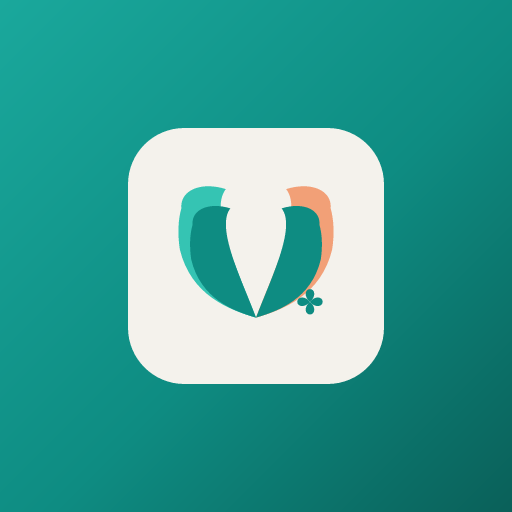
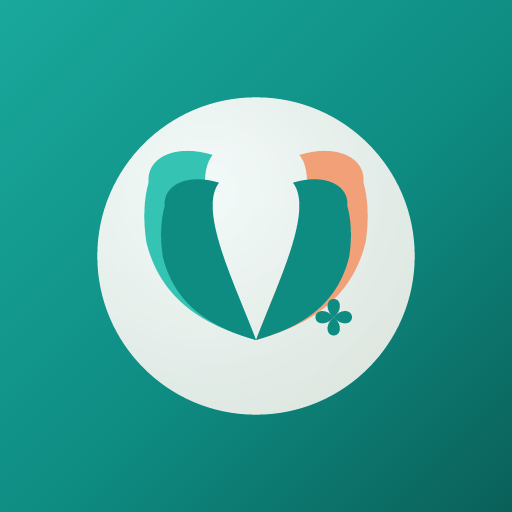
v3.1.1: ปรับดีไซน์ไอคอนแอพให้สวย/ทันสมัยขึ้น
ผู้ใช้ feedback ว่าไอคอนแอพชุด v3.1.0 "ไม่สวย" — ดีไซน์เดิมซ้อน 3 ชั้น
(พื้นหลัง gradient → การ์ดเหลี่ยมมุมโค้งสีครีม → ตรารพ.ตัวเล็กในการ์ด)
ทำให้ดูรกและรายละเอียดตรารพ. (แถบ coral, ดอกไม้สี่กลีบ) เละที่ขนาดเล็ก

- ตัดชั้นการ์ดเหลี่ยมออก เหลือ 2 ชั้น: พื้นหลัง gradient เทอร์ควอยซ์เต็มพื้นที่
  + แผ่นวงกลมสีครีมตรงกลาง แล้ววางตรารพ.ให้ใหญ่ขึ้นและอยู่กึ่งกลาง
- อัปเดตไฟล์ icon-192/512, apple-touch-icon, icon-maskable-192/512 (ชื่อไฟล์เดิม)
- ปรับ badge ตรารพ.หน้า login เป็นวงกลมให้เข้าชุดกับไอคอนแอพใหม่

ตรวจสอบแล้ว: tsc -b ผ่าน, npm test 68/68 ผ่าน, npm run build สำเร็จ

Claude-Session: https://claude.ai/code/session_017ScEEJXyYsYTMjkuNbqpj1

Changed region(s): [[0.1875, 0.1875, 0.8125, 0.7188], [0.2812, 0.7188, 0.7188, 0.8125]]

diff --git a/src/screens/LoginScreen.tsx b/src/screens/LoginScreen.tsx
@@ -65,7 +65,7 @@ export default function LoginScreen() {
           column, since a split layout only makes sense wider than this app is ever opened). */}
       <div style={{ position: 'relative', padding: 'calc(env(safe-area-inset-top, 0px) + 22px) 26px 4px', maxWidth: 440, margin: '0 auto', width: '100%' }}>
         <div style={{ display: 'flex', alignItems: 'center', gap: 12, marginBottom: 22, animation: 'fade .4s var(--ease-out) both' }}>
-          <div style={{ width: 46, height: 46, borderRadius: 14, background: 'linear-gradient(140deg, rgba(255,255,255,.85), rgba(255,255,255,.6))', border: '1px solid rgba(255,255,255,.3)', display: 'flex', alignItems: 'center', justifyContent: 'center', padding: 6, flex: 'none', animation: 'glowPulse 3.2s infinite', boxShadow: '0 6px 18px -6px rgba(0,0,0,.35), 0 0 0 5px rgba(var(--brand-coral-rgb),.16)' }}><HospitalCrest size={30} /></div>
+          <div style={{ width: 46, height: 46, borderRadius: '50%', background: 'radial-gradient(circle at 35% 30%, #ffffff, #f4f2ec)', border: '1px solid rgba(255,255,255,.3)', display: 'flex', alignItems: 'center', justifyContent: 'center', padding: 8, flex: 'none', animation: 'glowPulse 3.2s infinite', boxShadow: '0 6px 18px -6px rgba(0,0,0,.35), 0 0 0 5px rgba(var(--brand-coral-rgb),.16)' }}><HospitalCrest size={28} /></div>
           <div style={{ minWidth: 0 }}>
             <div style={{ fontSize: 13, fontWeight: 700, color: 'var(--ink-soft)', lineHeight: 1.3 }}>KPNHOS-DRUG SUBSTOCK-OPD-IPD-MANAGEMENT</div>
             <div style={{ fontSize: 11.5, color: 'rgba(242,245,239,.65)', marginTop: 2 }}>รพ.กรงปินัง · ห้องยา OPD-IPD</div>

diff --git a/CHANGELOG.md b/CHANGELOG.md
@@ -7,6 +7,20 @@
 > และไม่มีเครื่องมือสำหรับสร้าง GitHub Release ในชุดเครื่องมือที่ใช้งานได้ จึงใช้ไฟล์นี้ + `VERSION`
 > เป็นแหล่งความจริงของเลขเวอร์ชันแทน จนกว่าจะแก้ข้อจำกัดนั้นได้
 
+## [3.1.1] - 2026-09-08
+
+### Changed
+- **ปรับดีไซน์ไอคอนแอพใหม่ให้ดูสวย/ทันสมัยขึ้น** — ผู้ใช้ feedback ว่าไอคอนชุดที่เพิ่งฝังตรารพ.
+  (v3.1.0) "ไม่สวย" ปัญหาคือดีไซน์เดิมซ้อน 3 ชั้น (พื้นหลัง gradient → การ์ดเหลี่ยมมุมโค้งสีครีม →
+  ตรารพ. ตัวเล็กอยู่ในการ์ด) ทำให้ดูรกและตัวตรารพ.เล็กเกินไปจนรายละเอียด (แถบ coral บาง,
+  ดอกไม้สี่กลีบ) เละที่ขนาดเล็กบนหน้าจอโฮม
+  - ตัดชั้นการ์ดเหลี่ยมออก เหลือ 2 ชั้น: พื้นหลัง gradient เทอร์ควอยซ์เต็มพื้นที่ + แผ่นวงกลม
+    สีครีมนวลตรงกลาง (ทันสมัยแบบไอคอนแอพยุคใหม่) แล้ววางตรารพ.ให้ใหญ่ขึ้นและอยู่กึ่งกลางแผ่นวงกลม
+  - ผลลัพธ์: ตรารพ.เห็นรายละเอียดชัดขึ้นมากแม้ในขนาดเล็ก (192px หรือเล็กกว่า) และภาพรวมดูสะอาดตาขึ้น
+  - ปรับ badge ตรารพ.หน้า login ให้เป็นวงกลมเข้าชุดกับดีไซน์ไอคอนใหม่ (จากเดิมสี่เหลี่ยมมุมโค้ง)
+  - ใช้ไฟล์เดิมทั้งหมด (icon-192/512, apple-touch-icon, icon-maskable-192/512) — เนื้อหา
+    เปลี่ยน ชื่อไฟล์เดิม
+
 ## [3.1.0] - 2026-09-08
 
 ### Added
